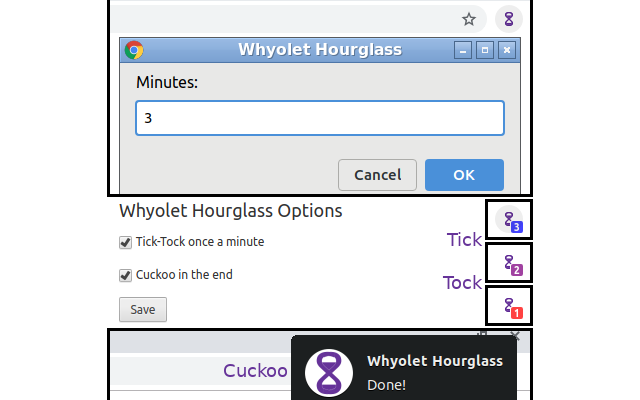
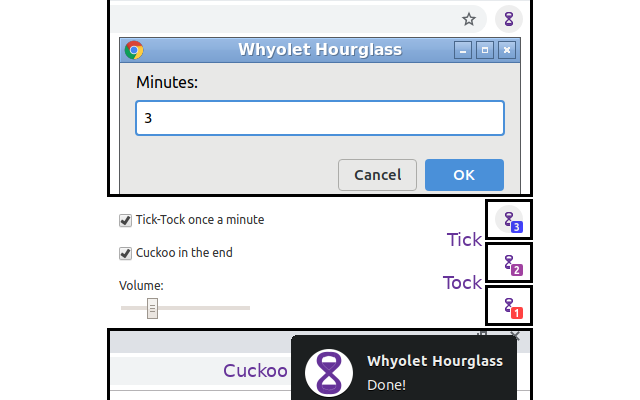
v0.1.1: Added  option to avoid too loud sounds in the headphones

Changed region(s): [[0.1875, 0.51, 0.5312, 0.81]]

diff --git a/src/background.js b/src/background.js
@@ -52,37 +52,31 @@ chrome.browserAction.onClicked.addListener(function() {
 });
 
 chrome.alarms.onAlarm.addListener(function() {
-    chrome.storage.local.get({
+    chrome.storage.local.get(Object.assign({
         minutes_left: 0,
         minutes_entered: 0,
-        tick_tock: true,
-        cuckoo: true
-    }, function(stored) {
+    }, options), function(stored) {
         if (stored.minutes_left <= 0) return;
 
         chrome.storage.local.set({minutes_left: --stored.minutes_left});
         render(stored.minutes_left, stored.minutes_entered);
 
-        if (stored.tick_tock && (stored.minutes_left || !stored.cuckoo)) {
-            (new Audio("audio/tick-tock.mp3")).play();
-            // Based on http://www.orangefreesounds.com/horror-creepy-clock-ticking-sound-effect/
-            // https://creativecommons.org/licenses/by-nc/4.0/
-        }
+        if (stored.tick_tock
+            && (stored.minutes_left || !stored.cuckoo)
+        ) play(audios.tick_tock, stored.volume);
 
         if (stored.minutes_left) return;
 
         chrome.alarms.clearAll();
 
-        if (stored.cuckoo) (new Audio("audio/cuckoo-bird-sound.mp3")).play();
-        // http://www.orangefreesounds.com/cuckoo-bird-sound/
-        // https://creativecommons.org/licenses/by-nc/4.0/
+        if (stored.cuckoo) play(audios.cuckoo, stored.volume);
 
         chrome.notifications.create(name, {
             type: "basic",
             title: name,
             message: "Done!",
 
-            iconUrl: "img/icon128.png"
+            iconUrl: "images/icon128.png"
             // Based on Whyolet Icon - https://whyolet.com/
             // by Alina Chirkova-Huszcza - http://maiwelin.com/
         });

diff --git a/src/options.js b/src/options.js
@@ -3,21 +3,30 @@
 
 "use strict";
 
-var options = {
-    tick_tock: true,
-    cuckoo: true
-};
-
 document.addEventListener("DOMContentLoaded", function() {
     chrome.storage.local.get(options, function(stored) {
-        for (var option in options)
-            document.getElementById(option).checked = stored[option];
+        for (var option in options) {
+            var input = document.getElementById(option), value = stored[option];
+            if (typeof value === "boolean") input.checked = value;
+            else input.value = value;
+        }
     });
 });
 
+document.getElementById("volume").addEventListener("change", function(event) {
+    var volume = event.target.value,
+        cuckoo = document.getElementById("cuckoo").checked;
+    play(cuckoo ? audios.cuckoo : audios.tick_tock, volume);
+});
+
 document.getElementById("save").addEventListener("click", function() {
-    for (var option in options)
-        options[option] = document.getElementById(option).checked;
+    for (var option in options) {
+        var input = document.getElementById(option);
+        options[option] = (
+            typeof options[option] === "boolean" ?
+            input.checked : input.value
+        );
+    }
 
     chrome.storage.local.set(options, function() {
         var status = document.getElementById("status");

diff --git a/src/core.js b/src/core.js
@@ -1,0 +1,26 @@
+// Whyolet Hourglass 0.1.0 - Core Library
+// Copyright (C) 2019 Denis Ryzhkov - https://whyolet.com/#hourglass
+
+"use strict";
+
+var options = {
+    tick_tock: true,
+    cuckoo: true,
+    volume: 50
+};
+
+var audios = {
+    tick_tock: "audios/tick-tock.mp3",
+    // Based on http://www.orangefreesounds.com/horror-creepy-clock-ticking-sound-effect/
+    // https://creativecommons.org/licenses/by-nc/4.0/
+
+    cuckoo: "audios/cuckoo-bird-sound.mp3"
+    // http://www.orangefreesounds.com/cuckoo-bird-sound/
+    // https://creativecommons.org/licenses/by-nc/4.0/
+};
+
+function play(url, volume) {
+    var audio = new Audio(url);
+    audio.volume = volume / 100;
+    audio.play();
+}

diff --git a/src/options.html b/src/options.html
@@ -3,10 +3,15 @@
 <head><title>Whyolet Hourglass Options</title></head>
 <body>
 <h1>Whyolet Hourglass Options</h1>
+
 <p><label><input type="checkbox" id="tick_tock"> Tick-Tock once a minute</label></p>
 <p><label><input type="checkbox" id="cuckoo"> Cuckoo in the end</label></p>
+<p><label>Volume:<br /><input type="range" id="volume" min="0" max="100"></label></p>
+
 <p id="status"></p>
 <p><button id="save">Save</button></p>
+
+<script src="core.js"></script>
 <script src="options.js"></script>
 </body>
 </html>
